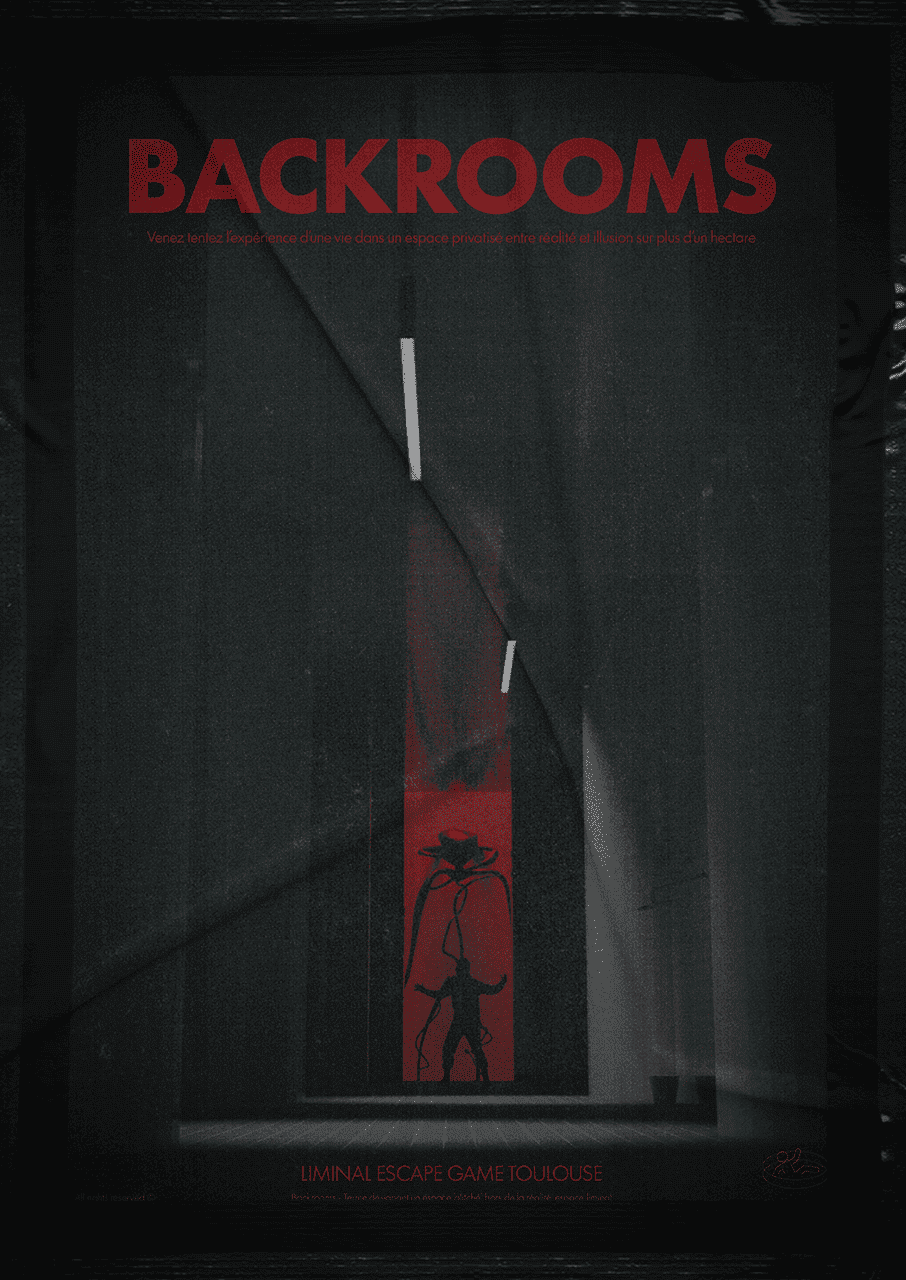
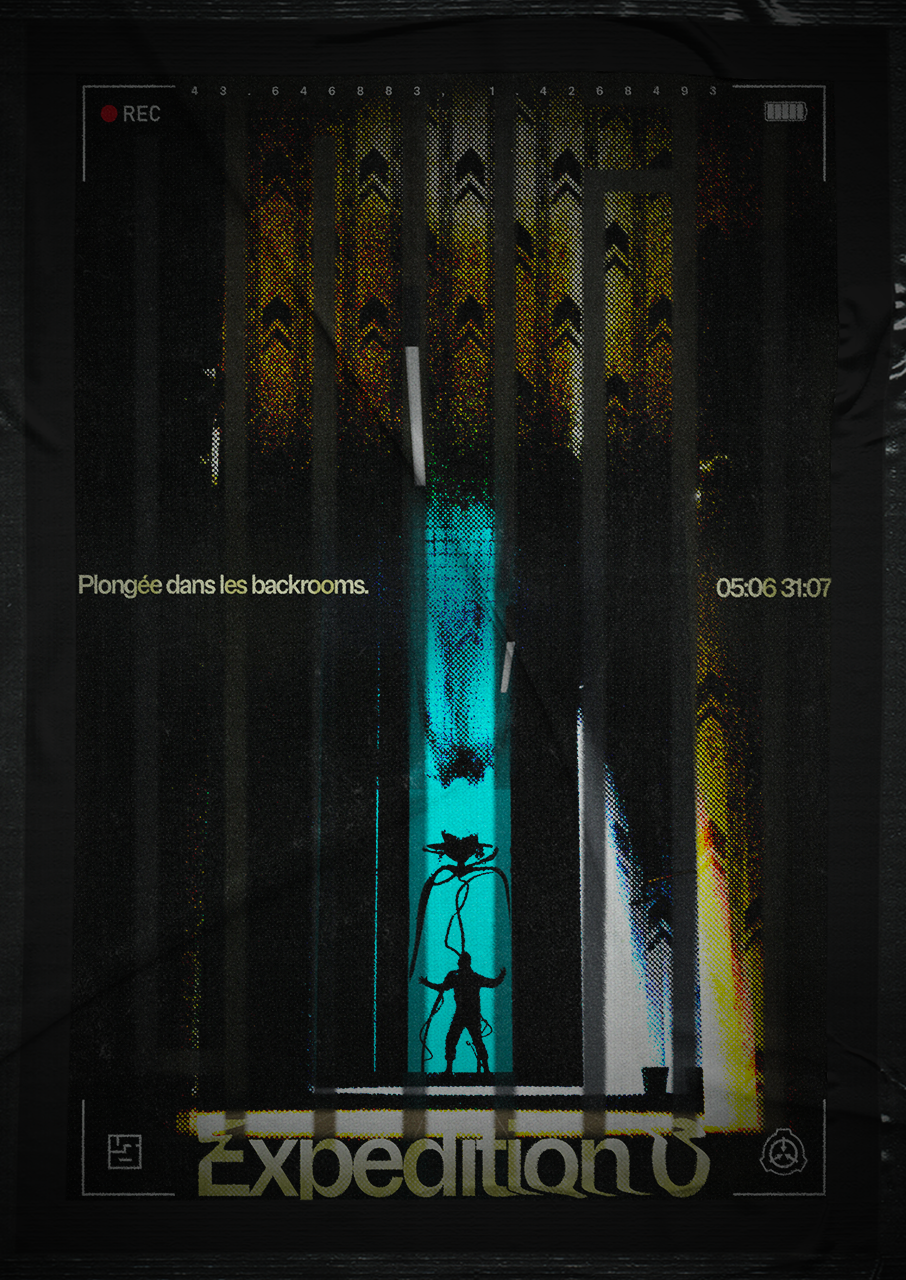
Dernière retouches

Changed region(s): [[0.0927, 0.0625, 0.9272, 0.9375], [0.989, 0.2188, 1.0, 0.2812], [0.1236, 0.875, 0.1545, 0.9375]]

diff --git a/index.html b/index.html
@@ -702,7 +702,7 @@
 
       <div class="poster-card" data-src="assets/Taped-Poster-Mockup_Small_2.png"
         data-title="RESURRECTION"
-        data-desc="Affiche de film réimaginée pour Resurrection, présenté en compétition officielle au Festival de Cannes. Le travail porte sur la représentation du rêve pour coller le plus possible à l'immaginaire du film — Le point central de l'affiche est aussi celui du film, une bougie en forme de personnage qui semble fondre dans sa propre image, entre présence et disparition. La typographie érosée vient renforcer cette idée de quelque chose qui se reconstruit depuis ses propres décombres. Un exercice de direction artistique cinématographique réalisé en hommage au film de Bi Gan."
+        data-desc="Affiche de film réimaginée pour Resurrection, présenté en compétition officielle au Festival de Cannes. Le travail porte sur la représentation du rêve pour coller le plus possible à l'immaginaire du film — Le point central de l'affiche est aussi celui du film, une bougie en forme de personnage — personnification du cinéma qui se consume lentement, année après année. En arrière-plan, les silhouettes des différents personnages du film se devinent dans une esthétique onirique, floue, aux portes de l'imaginaire. La typographie érosée vient renforcer cette idée de quelque chose qui se reconstruit depuis ses propres décombres. Un exercice de direction artistique cinématographique réalisé en hommage au film de Bi Gan."
         data-tags="Photoshop · Cinéma · 2026">
         <div class="poster-inner">
           <img src="assets/Taped-Poster-Mockup_Small_2.png" alt="Resurrection" />
@@ -711,7 +711,7 @@
 
       <div class="poster-card" data-src="assets/Taped-Poster-Mockup_Small_3.png"
         data-title="BACKROOMS"
-        data-desc="Affiche conçue pour Liminal Escape Game Toulouse, une expérience immersive inspirée de l'univers des Backrooms. Le parti pris visuel est minimaliste et oppressant : un couloir sombre, une silhouette au loin dans un rai de lumière rouge. Le titre en rouge saturé contraste avec l'atmosphère quasi monochrome du fond. L'objectif était de traduire visuellement la sensation de désorientation et d'isolement propre aux espaces liminaux (utilisation de Blender pour la composition en arrière plan)."
+        data-desc="EXPEDITION 0 est une expérience immersive à grande échelle de l'agence toulousaine Immersive Games by Momento Event, plongeant les joueurs dans les Backrooms — cet espace liminal infini popularisé en 2020 par le créateur Kane Pixels, dont la vidéo Found Footage questionnait déjà la frontière entre réalité et imaginaire. Pour cette affiche fictive, le parti pris visuel s'articule autour de l'horreur, du surnaturel et de la cinématographie, en s'inspirant de la direction artistique du film Backrooms et de sa typographie minimaliste. Le regard est immédiatement attiré vers le centre de l'image, où une lueur colorée contraste avec l'ensemble et révèle deux silhouettes — l'une humaine, l'autre monstrueuse. Le cadre Found Footage rappelle l'origine même des Backrooms, tandis que le fond glitché et saturé ancre l'affiche dans un espace visuel liminal hors de la réalité, brisant le 4e mur (avec des rappels du motif représentatif de l'étage 0 des 'Backrooms'). Le titre lui-même devient un élément graphique : texturé, modifié, fondu dans la composition."
         data-tags="Blender · Photoshop · Affiche événementielle · 2025">
         <div class="poster-inner">
           <img src="assets/Taped-Poster-Mockup_Small_3.png" alt="Backrooms" />
@@ -828,16 +828,6 @@
           </svg>
         </span>
         <span class="contact-text">ogib31@gmail.com</span>
-      </a>
-
-      <!-- Téléphone -->
-      <a class="contact-item" href="tel:0629869430">
-        <span class="contact-icon">
-          <svg viewBox="0 0 24 24" xmlns="http://www.w3.org/2000/svg">
-            <path d="M6.62 10.79a15.05 15.05 0 0 0 6.59 6.59l2.2-2.2a1 1 0 0 1 1.01-.24c1.12.37 2.33.57 3.58.57a1 1 0 0 1 1 1V20a1 1 0 0 1-1 1C10.61 21 3 13.39 3 4a1 1 0 0 1 1-1h3.5a1 1 0 0 1 1 1c0 1.25.2 2.45.57 3.58a1 1 0 0 1-.25 1.01l-2.2 2.2z"/>
-          </svg>
-        </span>
-        <span class="contact-text">0629869430</span>
       </a>
 
       <!-- Instagram -->

diff --git a/projet_2.html b/projet_2.html
@@ -435,7 +435,7 @@
 
       <div class="info-block reveal">
         <h4>Le projet</h4>
-        <p>Dance No One Cares est un carnet de danse conçu et édité sous l'identité prism.stdio. Ce projet éditorial est né d'une conviction simple : la danse est un medium de liberté. Le carnet s'adresse à quiconque ressent le besoin de bouger librement, sans regard, sans validation. Un manifeste graphique autant qu'un objet à tenir entre les mains.</p>
+        <p>Dance No One Cares est un carnet de danse conçu et édité sous l'identité prism.stdio. Ce projet éditorial est né d'une conviction simple : la danse est un medium de liberté. Le carnet s'adresse à quiconque ressent le besoin de bouger librement, sans avoir peur du regard des autres. Un manifeste graphique autant qu'un objet à tenir entre les mains.</p>
       </div>
 
       <div class="info-block reveal">
